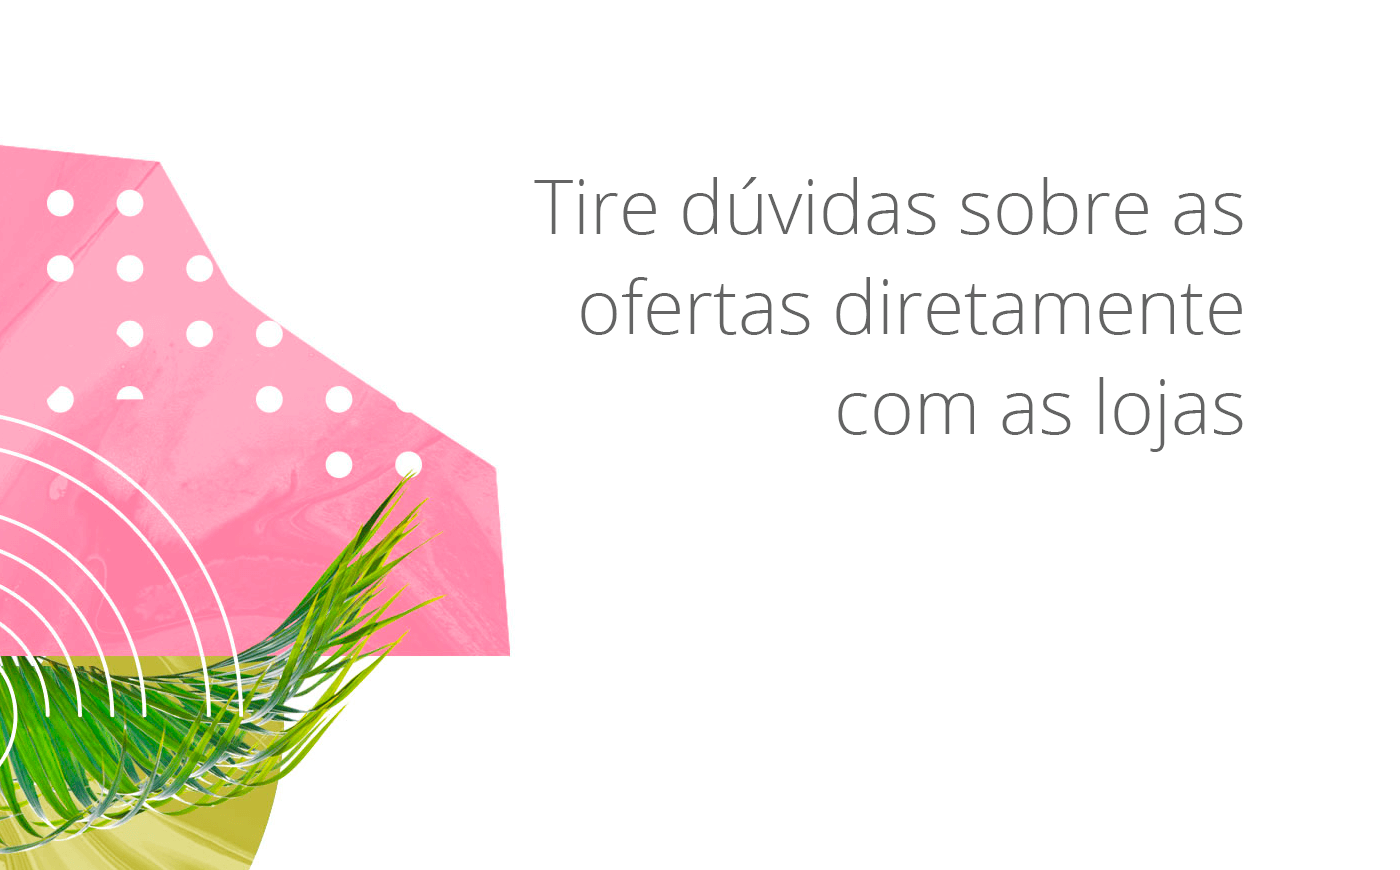
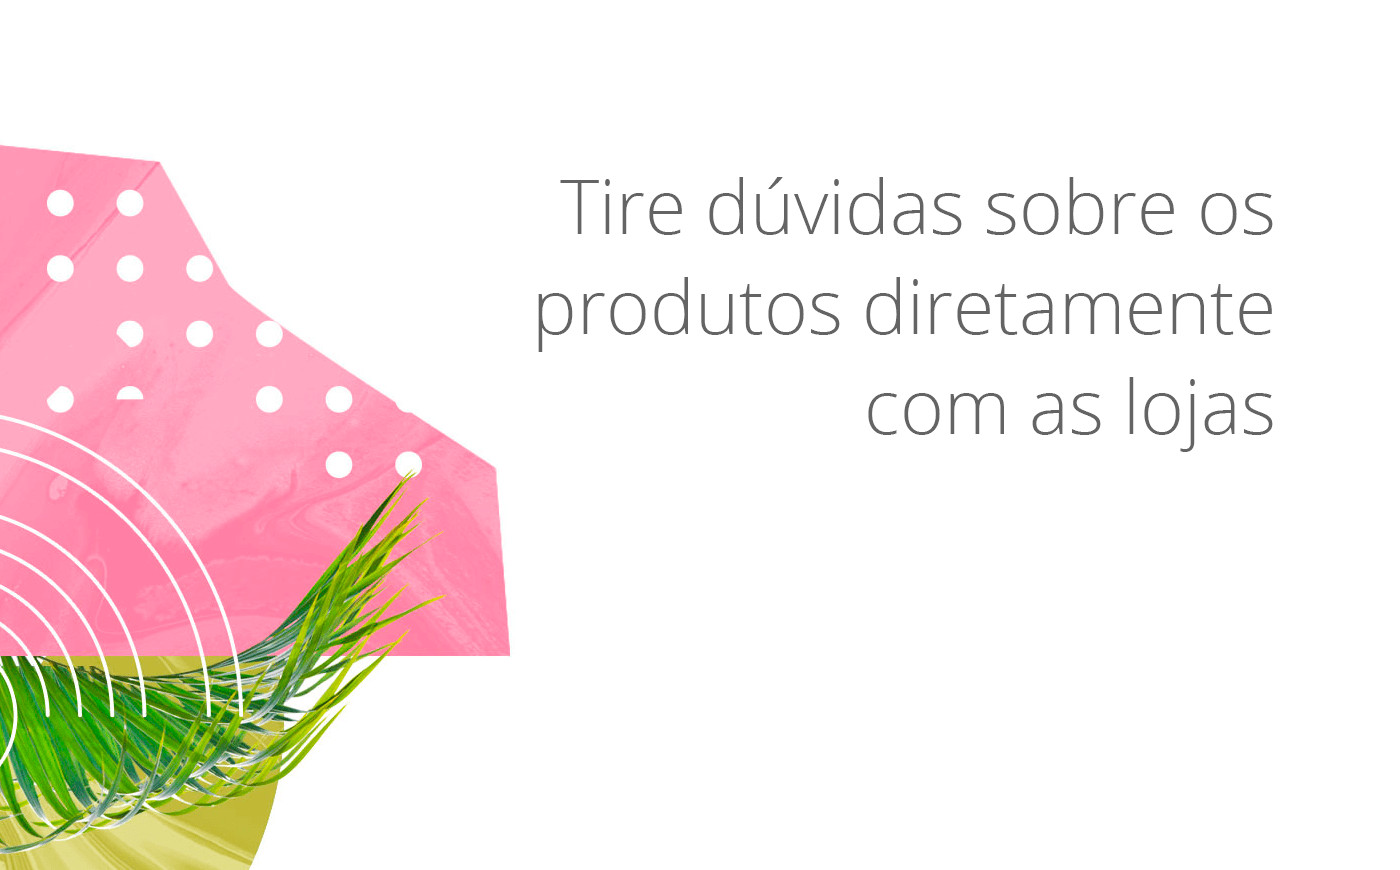
Change images

Changed region(s): [[0.3686, 0.3103, 0.9214, 0.4034], [0.3686, 0.1862, 0.9214, 0.2793], [0.5836, 0.4345, 0.9214, 0.5276]]

diff --git a/resources/views/mobile/how-works.blade.php b/resources/views/mobile/how-works.blade.php
@@ -28,7 +28,7 @@
                 </div>
 
                 <div class="slide-wrapper padding">
-                    <p>Tire dúvidas sobre as ofertas diretamente com as lojas</p>
+                    <p>Tire dúvidas sobre os produtos diretamente com as lojas</p>
 
                     <span class="swipe"><span class="arrow left"></span><span class="text">DESLIZE</span><span class="arrow right"></span></span>
                 </div>
@@ -36,13 +36,7 @@
                 <div class="slide-wrapper">
                     <p>Economize tempo e dinheiro conferindo o <i>naslojas</i> antes de ir às compras</p>
 
-                    <span class="swipe"><span class="arrow left"></span><span class="text">DESLIZE</span><span class="arrow right"></span></span>
-                </div>
-
-                <div class="slide-wrapper padding">
-                    <p>Baixe o app do <i>naslojas</i> e confira no seu celular</p>
-
-                    <span class="swipe"><span class="arrow left"></span><span class="text padding-right">DESLIZE</span></span>
+                    <span class="swipe"><span class="arrow left"></span><span class="text">DESLIZE</span></span>
                 </div>
             </div>
         </div>
